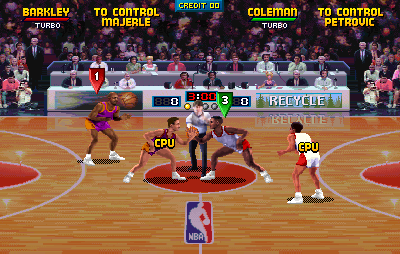
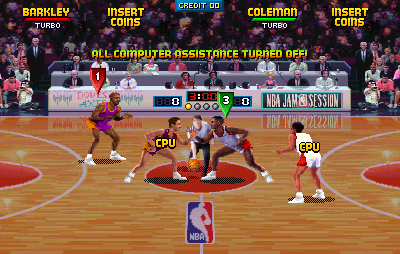
Version 1.5.7: arcade match-up message shots, TE arcade baby-size players

diff --git a/tools/nbajam_codes.html b/tools/nbajam_codes.html
@@ -184,7 +184,7 @@ footer a { color: var(--orange); text-decoration: none; display: inline-flex; al
       <a href="https://github.com/maxxthunder/nbajam/tree/main/docs">research notes</a>.</p>
   </details>
 
-  <footer><a href="https://github.com/maxxthunder/nbajam"><svg viewBox="0 0 16 16" width="18" height="18" fill="currentColor" aria-hidden="true"><path d="M8 0c4.42 0 8 3.58 8 8a8.013 8.013 0 0 1-5.45 7.59c-.4.08-.55-.17-.55-.38 0-.27.01-1.13.01-2.2 0-.75-.25-1.23-.54-1.48 1.78-.2 3.65-.88 3.65-3.95 0-.88-.31-1.59-.82-2.15.08-.2.36-1.02-.08-2.12 0 0-.67-.22-2.2.82-.64-.18-1.32-.27-2-.27-.68 0-1.36.09-2 .27-1.53-1.03-2.2-.82-2.2-.82-.44 1.1-.16 1.92-.08 2.12-.51.56-.82 1.28-.82 2.15 0 3.06 1.86 3.75 3.64 3.95-.23.2-.44.55-.51 1.07-.46.21-1.61.55-2.33-.66-.15-.24-.6-.83-1.23-.82-.67.01-.27.38.01.53.34.19.73.9.82 1.13.16.45.68 1.31 2.69.94 0 .67.01 1.3.01 1.49 0 .21-.15.45-.55.38A7.995 7.995 0 0 1 0 8c0-4.42 3.58-8 8-8Z"/></svg>maxxthunder/nbajam</a><a href="https://github.com/maxxthunder/nbajam/blob/main/CHANGELOG.md">v1.5.6</a></footer>
+  <footer><a href="https://github.com/maxxthunder/nbajam"><svg viewBox="0 0 16 16" width="18" height="18" fill="currentColor" aria-hidden="true"><path d="M8 0c4.42 0 8 3.58 8 8a8.013 8.013 0 0 1-5.45 7.59c-.4.08-.55-.17-.55-.38 0-.27.01-1.13.01-2.2 0-.75-.25-1.23-.54-1.48 1.78-.2 3.65-.88 3.65-3.95 0-.88-.31-1.59-.82-2.15.08-.2.36-1.02-.08-2.12 0 0-.67-.22-2.2.82-.64-.18-1.32-.27-2-.27-.68 0-1.36.09-2 .27-1.53-1.03-2.2-.82-2.2-.82-.44 1.1-.16 1.92-.08 2.12-.51.56-.82 1.28-.82 2.15 0 3.06 1.86 3.75 3.64 3.95-.23.2-.44.55-.51 1.07-.46.21-1.61.55-2.33-.66-.15-.24-.6-.83-1.23-.82-.67.01-.27.38.01.53.34.19.73.9.82 1.13.16.45.68 1.31 2.69.94 0 .67.01 1.3.01 1.49 0 .21-.15.45-.55.38A7.995 7.995 0 0 1 0 8c0-4.42 3.58-8 8-8Z"/></svg>maxxthunder/nbajam</a><a href="https://github.com/maxxthunder/nbajam/blob/main/CHANGELOG.md">v1.5.7</a></footer>
 </main>
 <script>
 // Card: [title, where, input, new?, note]. Input: "ini:MJT|Mar 22" = initials (and birthday);
@@ -773,7 +773,7 @@ const GROUPS = {
       ['Big heads', MU, 'Hold Up + Turbo + Pass until tip-off', false, '', 'shots/temu_bighead'],
       ['Huge heads', MU, 'Press any button 5 times; then hold Up + Turbo + Pass until tip-off', false, 'Big heads with exactly 6 presses in all.', 'shots/temu_huge'],
       ['Quick hands', MU, 'Press any button 4 times; then hold Down + Shoot until tip-off', false, '5 or more presses in all.'],
-      ['Baby-size players', MU + ', holding Down-Right', 'Turbo, Shoot, Pass, Turbo, Shoot, Pass, Turbo, Shoot, Pass', false],
+      ['Baby-size players', MU + ', holding Down-Right', 'Pass, Turbo, Shoot, Pass, Turbo, Shoot, Pass, Turbo, Shoot', false, 'Shows "BABY SIZE PLAYERS". Published lists give Turbo, Shoot, Pass; the game wants Pass first.', 'shots/temu_baby'],
       ['All computer assistance off', MU, 'Press any button exactly 10 times', true,
         'Needs a human player on each team. Shows "ALL COMPUTER ASSISTANCE TURNED OFF!" Not on any published TE list; the original game had a similar Turbo ×10 code.', 'shots/te_assist_off']]],
     ['Unused commentary', "Recorded, then left unused after the NBA turned it down. The samples are still in the sound ROM (bank 5, phrases $39, $3A, $3B and $3C); decoded here and joined in the published order.", [
@@ -878,7 +878,7 @@ function card([title, where, input, isNew, note, pic, clips], plat) {
     : input.includes(', ') ? chips(input.split(', ')) : chips([input], 'words');
   el.innerHTML = `${isNew ? '<span class="badge">★ New</span>' : ''}${pic ? `<img class="pic${pic.includes('/') ? ' pic-' + pic.split('/')[0] : ''}${shotOf(pic) ? ' zoomable' : ''}" src="img/${pic.includes('/') ? pic : 'arcade/' + pic}.png" ${shotOf(pic) ? `data-full="img/${shotOf(pic)}.png" tabindex="0" role="button" alt="Enlarge screenshot: ${esc(title)}"` : 'alt=""'} loading="lazy">` : ''}<h3>${esc(title)}</h3>
     <p class="where">${esc(where)}</p>${how}${clips ? `<div class="clips">${clips.map(([c, label]) =>
-      `<button type="button" class="play" data-src="audio/${c.includes('_') ? c : 'genesis_' + c.toLowerCase()}.mp3">▶ ${esc(label)}</button>`).join('')}</div>` : ''}${note || plat === 'te' && pic ? `<p class="note">${esc([note, plat === 'te' && pic ? 'Plays with the stats of the player it replaces.' : ''].filter(Boolean).join(' '))}</p>` : ''}`;
+      `<button type="button" class="play" data-src="audio/${c.includes('_') ? c : 'genesis_' + c.toLowerCase()}.mp3">▶ ${esc(label)}</button>`).join('')}</div>` : ''}${note || plat === 'te' && pic && !pic.startsWith('shots/') ? `<p class="note">${esc([note, plat === 'te' && pic && !pic.startsWith('shots/') ? 'Plays with the stats of the player it replaces.' : ''].filter(Boolean).join(' '))}</p>` : ''}`;
   el.dataset.text = (title + ' ' + input).toLowerCase();
   return el;
 }

diff --git a/tools/nbajam_password_checker.html b/tools/nbajam_password_checker.html
@@ -107,7 +107,7 @@ footer a { color: var(--orange); text-decoration: none; display: inline-flex; al
     <p>A password only works with the initials it was made for, because the initials are part of its key. If it's rejected,
       the game says <b>No record</b> and starts you from scratch.</p>
   </section>
-  <footer><a href="https://github.com/maxxthunder/nbajam"><svg viewBox="0 0 16 16" width="18" height="18" fill="currentColor" aria-hidden="true"><path d="M8 0c4.42 0 8 3.58 8 8a8.013 8.013 0 0 1-5.45 7.59c-.4.08-.55-.17-.55-.38 0-.27.01-1.13.01-2.2 0-.75-.25-1.23-.54-1.48 1.78-.2 3.65-.88 3.65-3.95 0-.88-.31-1.59-.82-2.15.08-.2.36-1.02-.08-2.12 0 0-.67-.22-2.2.82-.64-.18-1.32-.27-2-.27-.68 0-1.36.09-2 .27-1.53-1.03-2.2-.82-2.2-.82-.44 1.1-.16 1.92-.08 2.12-.51.56-.82 1.28-.82 2.15 0 3.06 1.86 3.75 3.64 3.95-.23.2-.44.55-.51 1.07-.46.21-1.61.55-2.33-.66-.15-.24-.6-.83-1.23-.82-.67.01-.27.38.01.53.34.19.73.9.82 1.13.16.45.68 1.31 2.69.94 0 .67.01 1.3.01 1.49 0 .21-.15.45-.55.38A7.995 7.995 0 0 1 0 8c0-4.42 3.58-8 8-8Z"/></svg>maxxthunder/nbajam</a><a href="codes.html">Secret codes</a><a href="https://github.com/maxxthunder/nbajam/blob/main/CHANGELOG.md">v1.5.6</a></footer>
+  <footer><a href="https://github.com/maxxthunder/nbajam"><svg viewBox="0 0 16 16" width="18" height="18" fill="currentColor" aria-hidden="true"><path d="M8 0c4.42 0 8 3.58 8 8a8.013 8.013 0 0 1-5.45 7.59c-.4.08-.55-.17-.55-.38 0-.27.01-1.13.01-2.2 0-.75-.25-1.23-.54-1.48 1.78-.2 3.65-.88 3.65-3.95 0-.88-.31-1.59-.82-2.15.08-.2.36-1.02-.08-2.12 0 0-.67-.22-2.2.82-.64-.18-1.32-.27-2-.27-.68 0-1.36.09-2 .27-1.53-1.03-2.2-.82-2.2-.82-.44 1.1-.16 1.92-.08 2.12-.51.56-.82 1.28-.82 2.15 0 3.06 1.86 3.75 3.64 3.95-.23.2-.44.55-.51 1.07-.46.21-1.61.55-2.33-.66-.15-.24-.6-.83-1.23-.82-.67.01-.27.38.01.53.34.19.73.9.82 1.13.16.45.68 1.31 2.69.94 0 .67.01 1.3.01 1.49 0 .21-.15.45-.55.38A7.995 7.995 0 0 1 0 8c0-4.42 3.58-8 8-8Z"/></svg>maxxthunder/nbajam</a><a href="codes.html">Secret codes</a><a href="https://github.com/maxxthunder/nbajam/blob/main/CHANGELOG.md">v1.5.7</a></footer>
 </main>
 <script>
 const ALPHABET = "BCDFGHJKLMNPQRSTVWXYZ12345";

diff --git a/docs/arcade_te.md b/docs/arcade_te.md
@@ -80,8 +80,12 @@ the results (`FF939390`). All checked in MAME on rev 4.0 3/23.
 | Tournament Mode | hold Right + all three buttons | sets `@10EB1C0`, clears secret characters, cancels everything else |
 | Big Head / Huge Head | hold Up + Turbo + Pass at tip-off (`FF876220`); Huge with exactly 6 presses | |
 | Quick Hands | 5+ presses, hold Down + Shoot at tip-off | |
-| Baby size | hold Down-Right; Turbo, Shoot, Pass ×3 (table `FF93E180`) | |
+| Baby size | hold Down-Right; Pass, Turbo, Shoot ×3 (table `FF93E180`) | the table holds button bits 4, 1, 2 three times (Turbo = 1, Shoot = 2, Pass = 4, read at `FF9DA700`); published lists give Turbo, Shoot, Pass. Success sets `@10EAAA0`, and tip-off shows "BABY SIZE PLAYERS" |
 | **All computer assistance off** | **exactly 10 presses, with a human on each team** (`FF93A640`) | not on any published TE list |
+
+Baby size wasn't completed in MAME: the check (`FF93DEE0`) matched the first eight presses in order, but the ninth
+never reached the game's input state. The codes page's screenshot was taken with `@10EAAA0` set during Tonight's
+Match-Up, which is what the check sets on success.
 
 Also checked: **Fatalities** (team select, hold Up and press Pass 20 times) works on revs 1.00, 2.0 and 2.1 but
 not 3.0 2/26, 4.0 3/03 or 4.0 3/23. **Team Swap** (halftime substitutions, hold Right + Pass) shows

diff --git a/CHANGELOG.md b/CHANGELOG.md
@@ -2,6 +2,14 @@
 
 Changes to the [secret codes page](https://maxxthunder.github.io/nbajam/codes.html) and [password checker](https://maxxthunder.github.io/nbajam/). The version is shown at the bottom of each page. **Codes page** and **Checker** are what visitors see; **Notes** are the [research notes](docs/); **README** is this repo's front page.
 
+## 1.5.7 (2026-10-25)
+- **Codes page:** the arcade NBA Jam powerup defense, shot percentage and computer-assistance-off screenshots now show
+  their messages.
+- **Codes page:** a screenshot of Tournament Edition's baby-size players on arcade, and the code's buttons in the order
+  the game checks them: Pass, Turbo, Shoot (published lists give Turbo, Shoot, Pass).
+- **Codes page:** the note "Plays with the stats of the player it replaces" only on arcade Tournament Edition secret
+  characters, not on its match-up codes.
+
 ## 1.5.6 (2026-10-25)
 - **Notes:** the notes folder opens with a guide to each file, by game, with links to their main sections.
 

diff --git a/README.md b/README.md
@@ -1,6 +1,6 @@
 # NBA Jam and NBA Hangtime: Secret Codes and Password Checker
 
-**[Secret codes →](https://maxxthunder.github.io/nbajam/codes.html)** &nbsp; **[Password checker →](https://maxxthunder.github.io/nbajam/)** &nbsp;[![v1.5.6](https://img.shields.io/badge/version-1.5.6-e8742c)](CHANGELOG.md)
+**[Secret codes →](https://maxxthunder.github.io/nbajam/codes.html)** &nbsp; **[Password checker →](https://maxxthunder.github.io/nbajam/)** &nbsp;[![v1.5.7](https://img.shields.io/badge/version-1.5.7-e8742c)](CHANGELOG.md)
 
 <p align="center">
   <img src="tools/img/logo_nbajam.png" alt="NBA Jam" height="96">
